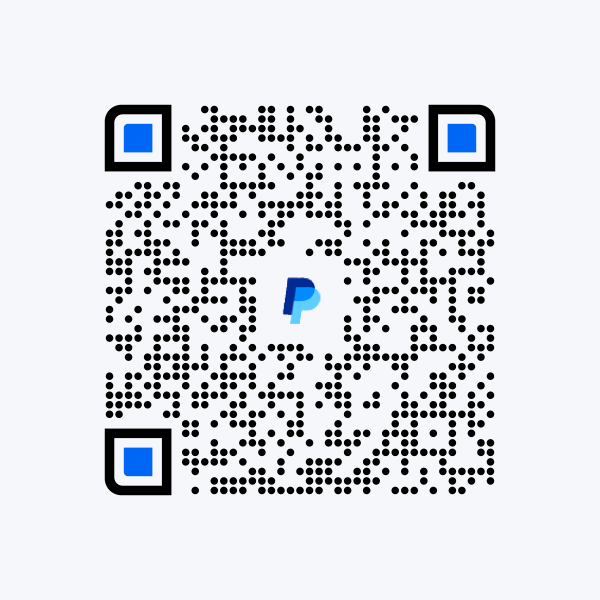
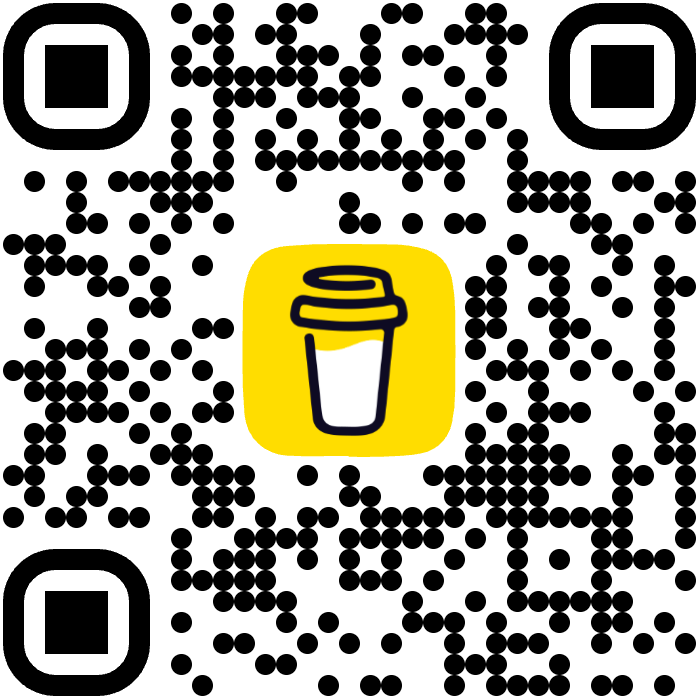
Switch support to Buy Me a Coffee

diff --git a/css/style.css b/css/style.css
@@ -1,1 +1,1 @@
-:root{--bg: #1b1410;--ink: #3b2a1e;--paper: #f4e9d4;--gold: #e8c98a;--leather: #4a1f15;--muted: #a8977f}*{box-sizing:border-box;margin:0;padding:0}html,body{height:100%}body{font-family:Arial,Helvetica,sans-serif;background:radial-gradient(ellipse at top,#2c2019,var(--bg) 70%);color:var(--paper);display:flex;justify-content:center}html[lang=zh-CN] body{font-family:"Noto Serif SC",Songti SC,serif}#app{position:relative;width:100%;max-width:440px;min-height:100vh;padding:56px 24px 48px}.language-switch{position:absolute;top:12px;right:16px;z-index:2;font:inherit;font-size:13px;color:var(--gold);cursor:pointer;background:#f4e9d40f;border:1px solid rgba(232,201,138,.3);border-radius:999px;padding:6px 12px}.language-switch:hover,.language-switch:active{background:#e8c98a2e;border-color:var(--gold)}.screen{display:flex;flex-direction:column;align-items:center;text-align:center;gap:20px}.intro{color:var(--muted);line-height:1.8}.step{color:var(--gold);font-size:13px;letter-spacing:2px}.question{font-size:22px;font-weight:600;line-height:1.6;margin:8px 0}.quote{color:var(--gold);font-size:18px;line-height:1.7;padding:12px 16px;border-left:2px solid var(--gold);text-align:left}.options{display:grid;grid-template-columns:1fr 1fr;gap:12px;width:100%}.opt{font:inherit;font-size:16px;color:var(--paper);background:#f4e9d40f;border:1px solid rgba(232,201,138,.3);border-radius:12px;padding:18px 8px;cursor:pointer;transition:.2s;display:flex;flex-direction:column;align-items:center;gap:6px}.opt .emoji{font-size:24px}.opt:hover,.opt:active{background:#e8c98a2e;border-color:var(--gold)}.primary,.secondary{font:inherit;cursor:pointer;border-radius:999px;padding:12px 36px;font-size:16px;transition:.2s}.primary{background:var(--gold);color:var(--leather);border:none;font-weight:600}.primary:disabled{opacity:.5}.secondary{background:transparent;color:var(--gold);border:1px solid var(--gold)}.hint{color:var(--muted);font-size:13px}.book{position:relative;width:min(300px,86vw);height:min(414px,118vw);perspective:1200px;margin:24px 0}.book .inner{position:absolute;inset:0;background:var(--paper);border-radius:4px 10px 10px 4px;display:flex;align-items:center;justify-content:center;color:var(--ink);font-size:28px;box-shadow:inset 8px 0 16px #00000026,0 10px 30px #00000080}.book .cover{position:absolute;inset:0;border-radius:4px 10px 10px 4px;background:linear-gradient(135deg,#6a2c1d,var(--leather) 60%,#2e120c);border:2px solid rgba(232,201,138,.5);outline:1px solid rgba(232,201,138,.25);outline-offset:-10px;transform-origin:left center;transition:transform 1.3s cubic-bezier(.6,.05,.3,1);display:flex;flex-direction:column;align-items:center;justify-content:center;gap:8px;color:var(--gold);backface-visibility:hidden;box-shadow:0 10px 30px #00000080}.book:not(.opening) .cover{animation:breathe 3s ease-in-out infinite}.book.opening .cover{transform:rotateY(-165deg)}.cover-title{font-size:32px;letter-spacing:8px;font-weight:600}.cover-sub{font-size:11px;letter-spacing:4px;opacity:.7}.page-card{width:100%;background:var(--paper);color:var(--ink);border-radius:6px;padding:32px 26px 22px;text-align:center;box-shadow:0 12px 40px #00000080;background-image:radial-gradient(circle at 20% 10%,rgba(255,255,255,.5),transparent 40%),radial-gradient(circle at 90% 90%,rgba(120,80,40,.12),transparent 50%)}.page-no{font-size:13px;letter-spacing:3px;color:#8a6a45}.recall{margin-top:18px;font-size:15px;line-height:1.8;color:#6b5139}.divider{margin:18px 0;color:#b08a55}.message{font-size:22px;font-weight:600;line-height:1.7}.action{margin-top:24px;padding:14px;border:1px dashed #b08a55;border-radius:8px}.action span{font-size:12px;letter-spacing:2px;color:#8a6a45}.action p{margin-top:6px;line-height:1.7}.date{margin-top:22px;font-size:11px;color:#a08868;letter-spacing:1px}.feedback p{color:var(--muted);font-size:14px;margin-bottom:10px}.fb-row{display:flex;gap:8px}.page-actions{display:flex;flex-direction:column;align-items:center;gap:8px}.page-actions .hint{margin:0}.share-status{min-height:1.2em;color:var(--muted);font-size:13px}.download-image{color:var(--gold);font-size:14px;text-decoration:underline;text-underline-offset:3px}.fb{font:inherit;font-size:14px;color:var(--paper);cursor:pointer;background:transparent;border:1px solid rgba(232,201,138,.3);border-radius:999px;padding:8px 14px}.fb.selected{background:var(--gold);color:var(--leather);border-color:var(--gold)}html[lang=en] .page-no{font-size:11px;letter-spacing:1px}html[lang=en] .recall{font-size:13px;line-height:1.65}html[lang=en] .message{font-size:19px;line-height:1.6}html[lang=en] .action span{font-size:11px}html[lang=en] .action p{font-size:14px;line-height:1.6}html[lang=en] .date{font-size:10px;letter-spacing:.5px}.fade-in{animation:fadeIn .5s ease both}.reveal{animation:reveal .9s ease both}@keyframes fadeIn{0%{opacity:0;transform:translateY(8px)}to{opacity:1;transform:none}}@keyframes reveal{0%{opacity:0;transform:scale(.94) rotateX(8deg);filter:blur(4px)}to{opacity:1;transform:none;filter:none}}@keyframes breathe{0%,to{box-shadow:0 10px 30px #00000080}50%{box-shadow:0 10px 40px #e8c98a40}}@media(max-height:700px){.book{width:min(270px,78vw);height:min(372px,108vw)}}@media(max-height:580px){.book{width:220px;height:304px}}.site-widgets{position:fixed;inset:auto 14px 14px;z-index:10;display:flex;justify-content:space-between;align-items:flex-end;pointer-events:none}.corner-widget{position:relative;pointer-events:auto}.widget-toggle{display:flex;align-items:center;gap:7px;padding:10px 13px;border:1px solid rgba(232,201,138,.45);border-radius:999px;background:#2c2019;color:var(--gold);box-shadow:0 4px 16px #00000059;font:inherit;font-size:13px;cursor:pointer}.widget-toggle:hover,.widget-toggle[aria-expanded=true]{background:var(--leather);border-color:var(--gold)}.widget-toggle>span:first-child{font-size:18px}.widget-panel{position:absolute;bottom:calc(100% + 10px);width:min(300px,calc(100vw - 28px));padding:14px;border:1px solid rgba(232,201,138,.45);border-radius:14px;background:#f4e9d4;color:var(--ink);box-shadow:0 8px 28px #00000073}.visitor-panel{left:0}.support-panel{right:0;text-align:center}.widget-panel-heading{display:flex;align-items:center;justify-content:space-between;gap:10px;margin-bottom:10px;font-size:14px;font-weight:600}.widget-close{width:28px;height:28px;border:0;border-radius:50%;background:#3b2a1e1a;color:var(--ink);font:inherit;font-size:20px;cursor:pointer;line-height:1}.support-qr{display:block;width:min(230px,100%);height:auto;margin:0 auto;border-radius:6px}.widget-note{margin-top:9px;color:#705941;font-size:12px;line-height:1.5}.visitor-map-content{width:100%;min-height:170px;overflow:auto;border-radius:8px;background:#fff}.visitor-map-content iframe,.visitor-map-content img{max-width:100%}[hidden]{display:none!important}@media(max-width:360px){.site-widgets{inset-inline:8px;bottom:8px}.widget-toggle{padding:9px 10px;font-size:12px}.widget-panel{width:min(280px,calc(100vw - 16px))}}
+:root{--bg: #1b1410;--ink: #3b2a1e;--paper: #f4e9d4;--gold: #e8c98a;--leather: #4a1f15;--muted: #a8977f}*{box-sizing:border-box;margin:0;padding:0}html,body{height:100%}body{font-family:Arial,Helvetica,sans-serif;background:radial-gradient(ellipse at top,#2c2019,var(--bg) 70%);color:var(--paper);display:flex;justify-content:center}html[lang=zh-CN] body{font-family:"Noto Serif SC",Songti SC,serif}#app{position:relative;width:100%;max-width:440px;min-height:100vh;padding:56px 24px 48px}.language-switch{position:absolute;top:12px;right:16px;z-index:2;font:inherit;font-size:13px;color:var(--gold);cursor:pointer;background:#f4e9d40f;border:1px solid rgba(232,201,138,.3);border-radius:999px;padding:6px 12px}.language-switch:hover,.language-switch:active{background:#e8c98a2e;border-color:var(--gold)}.screen{display:flex;flex-direction:column;align-items:center;text-align:center;gap:20px}.intro{color:var(--muted);line-height:1.8}.step{color:var(--gold);font-size:13px;letter-spacing:2px}.question{font-size:22px;font-weight:600;line-height:1.6;margin:8px 0}.quote{color:var(--gold);font-size:18px;line-height:1.7;padding:12px 16px;border-left:2px solid var(--gold);text-align:left}.options{display:grid;grid-template-columns:1fr 1fr;gap:12px;width:100%}.opt{font:inherit;font-size:16px;color:var(--paper);background:#f4e9d40f;border:1px solid rgba(232,201,138,.3);border-radius:12px;padding:18px 8px;cursor:pointer;transition:.2s;display:flex;flex-direction:column;align-items:center;gap:6px}.opt .emoji{font-size:24px}.opt:hover,.opt:active{background:#e8c98a2e;border-color:var(--gold)}.primary,.secondary{font:inherit;cursor:pointer;border-radius:999px;padding:12px 36px;font-size:16px;transition:.2s}.primary{background:var(--gold);color:var(--leather);border:none;font-weight:600}.primary:disabled{opacity:.5}.secondary{background:transparent;color:var(--gold);border:1px solid var(--gold)}.hint{color:var(--muted);font-size:13px}.book{position:relative;width:min(300px,86vw);height:min(414px,118vw);perspective:1200px;margin:24px 0}.book .inner{position:absolute;inset:0;background:var(--paper);border-radius:4px 10px 10px 4px;display:flex;align-items:center;justify-content:center;color:var(--ink);font-size:28px;box-shadow:inset 8px 0 16px #00000026,0 10px 30px #00000080}.book .cover{position:absolute;inset:0;border-radius:4px 10px 10px 4px;background:linear-gradient(135deg,#6a2c1d,var(--leather) 60%,#2e120c);border:2px solid rgba(232,201,138,.5);outline:1px solid rgba(232,201,138,.25);outline-offset:-10px;transform-origin:left center;transition:transform 1.3s cubic-bezier(.6,.05,.3,1);display:flex;flex-direction:column;align-items:center;justify-content:center;gap:8px;color:var(--gold);backface-visibility:hidden;box-shadow:0 10px 30px #00000080}.book:not(.opening) .cover{animation:breathe 3s ease-in-out infinite}.book.opening .cover{transform:rotateY(-165deg)}.cover-title{font-size:32px;letter-spacing:8px;font-weight:600}.cover-sub{font-size:11px;letter-spacing:4px;opacity:.7}.page-card{width:100%;background:var(--paper);color:var(--ink);border-radius:6px;padding:32px 26px 22px;text-align:center;box-shadow:0 12px 40px #00000080;background-image:radial-gradient(circle at 20% 10%,rgba(255,255,255,.5),transparent 40%),radial-gradient(circle at 90% 90%,rgba(120,80,40,.12),transparent 50%)}.page-no{font-size:13px;letter-spacing:3px;color:#8a6a45}.recall{margin-top:18px;font-size:15px;line-height:1.8;color:#6b5139}.divider{margin:18px 0;color:#b08a55}.message{font-size:22px;font-weight:600;line-height:1.7}.action{margin-top:24px;padding:14px;border:1px dashed #b08a55;border-radius:8px}.action span{font-size:12px;letter-spacing:2px;color:#8a6a45}.action p{margin-top:6px;line-height:1.7}.date{margin-top:22px;font-size:11px;color:#a08868;letter-spacing:1px}.feedback p{color:var(--muted);font-size:14px;margin-bottom:10px}.fb-row{display:flex;gap:8px}.page-actions{display:flex;flex-direction:column;align-items:center;gap:8px}.page-actions .hint{margin:0}.share-status{min-height:1.2em;color:var(--muted);font-size:13px}.download-image{color:var(--gold);font-size:14px;text-decoration:underline;text-underline-offset:3px}.fb{font:inherit;font-size:14px;color:var(--paper);cursor:pointer;background:transparent;border:1px solid rgba(232,201,138,.3);border-radius:999px;padding:8px 14px}.fb.selected{background:var(--gold);color:var(--leather);border-color:var(--gold)}html[lang=en] .page-no{font-size:11px;letter-spacing:1px}html[lang=en] .recall{font-size:13px;line-height:1.65}html[lang=en] .message{font-size:19px;line-height:1.6}html[lang=en] .action span{font-size:11px}html[lang=en] .action p{font-size:14px;line-height:1.6}html[lang=en] .date{font-size:10px;letter-spacing:.5px}.fade-in{animation:fadeIn .5s ease both}.reveal{animation:reveal .9s ease both}@keyframes fadeIn{0%{opacity:0;transform:translateY(8px)}to{opacity:1;transform:none}}@keyframes reveal{0%{opacity:0;transform:scale(.94) rotateX(8deg);filter:blur(4px)}to{opacity:1;transform:none;filter:none}}@keyframes breathe{0%,to{box-shadow:0 10px 30px #00000080}50%{box-shadow:0 10px 40px #e8c98a40}}@media(max-height:700px){.book{width:min(270px,78vw);height:min(372px,108vw)}}@media(max-height:580px){.book{width:220px;height:304px}}.site-widgets{position:fixed;inset:auto 14px 14px;z-index:10;display:flex;justify-content:space-between;align-items:flex-end;pointer-events:none}.corner-widget{position:relative;pointer-events:auto}.widget-toggle{display:flex;align-items:center;gap:7px;padding:10px 13px;border:1px solid rgba(232,201,138,.45);border-radius:999px;background:#2c2019;color:var(--gold);box-shadow:0 4px 16px #00000059;font:inherit;font-size:13px;cursor:pointer}.widget-toggle:hover,.widget-toggle[aria-expanded=true]{background:var(--leather);border-color:var(--gold)}.widget-toggle>span:first-child{font-size:18px}.widget-panel{position:absolute;bottom:calc(100% + 10px);width:min(300px,calc(100vw - 28px));padding:14px;border:1px solid rgba(232,201,138,.45);border-radius:14px;background:#f4e9d4;color:var(--ink);box-shadow:0 8px 28px #00000073}.visitor-panel{left:0}.support-panel{right:0;text-align:center}.widget-panel-heading{display:flex;align-items:center;justify-content:space-between;gap:10px;margin-bottom:10px;font-size:14px;font-weight:600}.widget-close{width:28px;height:28px;border:0;border-radius:50%;background:#3b2a1e1a;color:var(--ink);font:inherit;font-size:20px;cursor:pointer;line-height:1}.support-qr{display:block;width:min(230px,100%);height:auto;margin:0 auto;border-radius:6px}.support-link{display:inline-block;margin-top:8px;color:var(--leather);font-size:14px;font-weight:600;text-underline-offset:3px}.widget-note{margin-top:9px;color:#705941;font-size:12px;line-height:1.5}.visitor-map-content{width:100%;min-height:170px;overflow:auto;border-radius:8px;background:#fff}.visitor-map-content iframe,.visitor-map-content img{max-width:100%}[hidden]{display:none!important}@media(max-width:360px){.site-widgets{inset-inline:8px;bottom:8px}.widget-toggle{padding:9px 10px;font-size:12px}.widget-panel{width:min(280px,calc(100vw - 16px))}}

diff --git a/index.html b/index.html
@@ -37,8 +37,11 @@
           <p data-i18n="supportTitle">Enjoying FateBook?</p>
           <button class="widget-close" type="button" data-widget-close="support" data-i18n-aria-label="close" aria-label="Close">×</button>
         </div>
-        <img class="support-qr" src="assets/donate-qr.png" alt="PayPal support QR code" data-i18n-alt="supportQrAlt" />
-        <p class="widget-note" data-i18n="supportNote">Scan with PayPal to support FateBook.</p>
+        <a class="support-qr-link" href="https://buymeacoffee.com/fatebook" target="_blank" rel="noopener noreferrer">
+          <img class="support-qr" src="assets/donate-qr.png" alt="Buy Me a Coffee support QR code" data-i18n-alt="supportQrAlt" />
+        </a>
+        <a class="support-link" href="https://buymeacoffee.com/fatebook" target="_blank" rel="noopener noreferrer" data-i18n="supportLink">Buy Me a Coffee</a>
+        <p class="widget-note" data-i18n="supportNote">Scan the code or use the link to support FateBook.</p>
       </div>
     </aside>
   </div>
